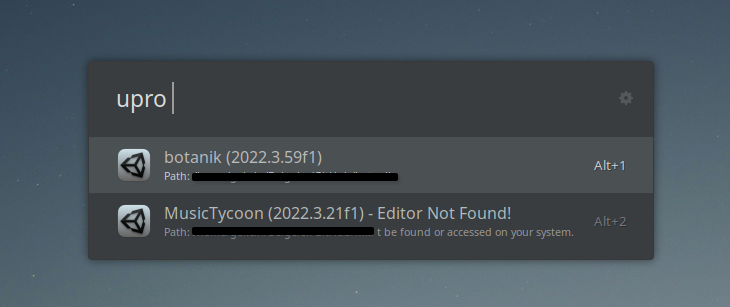
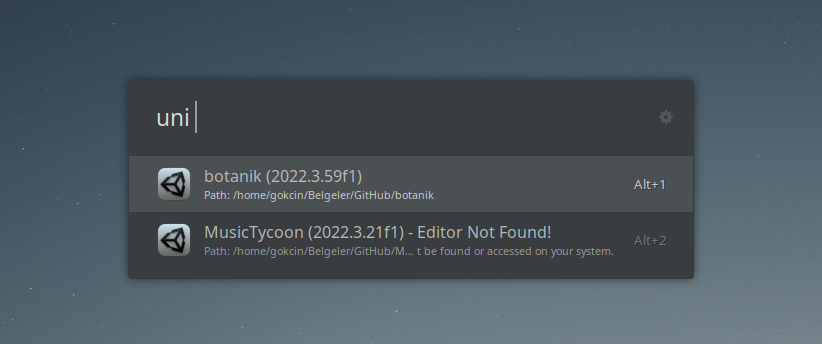
update readme

diff --git a/README.md b/README.md
@@ -5,6 +5,7 @@ This Ulauncher extension allows you to launch your Unity projects directly witho
 ## Features
 
 *   Quickly search and launch Unity projects via Ulauncher.
+*   Searches for projects in user-configured directories.
 *   Indicates if the correct Unity Editor version for the project is installed.
 *   If the specified Editor version for a project is not found on your system, you will receive an "Editor Not Found!" warning.
 
@@ -18,13 +19,30 @@ In the image:
 *   **botanik (2022.3.59f1):** The associated Unity Editor version for this project is installed on your system, and the project is ready to be opened.
 *   **MusicTycoon (2022.3.21f1) - Editor Not Found!:** The specified Unity Editor version for this project was not found on your system. You may need to install the relevant Editor version via Unity Hub to open the project.
 
+## Configuration
+
+For the extension to find your Unity projects, you need to tell it where to look.
+
+1.  Open Ulauncher preferences (usually by typing `ulauncher-prefs` in Ulauncher or through your system's application menu).
+2.  Go to the "Extensions" tab.
+3.  Find "Unity Project Launcher" in the list and click on it or its settings icon.
+4.  You will see a preference field named **"Unity Project Paths"**.
+5.  In this field, enter the full paths to the directories where your Unity projects are stored.
+    *   If you have multiple directories, enter **each path on a new line**.
+    *   Example:
+        ```
+        /home/your_username/UnityProjects
+        /mnt/data/Work/GameDevProjects
+        ```
+6.  The extension has a default path set to `/home/user/Documents/GitHub`. Please update this to reflect your actual project locations. If no paths are configured, or the configured paths do not contain Unity projects, the extension will not be able to find them.
 
 ## Usage
 
 1.  Open Ulauncher (default shortcut `Ctrl + Space`).
-2.  Enter the extension's keyword (`upro`).
-3.  Select one of your listed Unity projects and press `Enter`.
-4.  If the associated Editor version is installed, the project will open with the selected Editor.
+2.  Enter the extension's keyword (`uni`).
+3.  If you have configured project paths and have projects in them, they will be listed. Start typing to filter the list.
+4.  Select one of your listed Unity projects and press `Enter/Space`.
+5.  If the associated Editor version is installed, the project will open with the selected Editor.
 
 ## License
 
